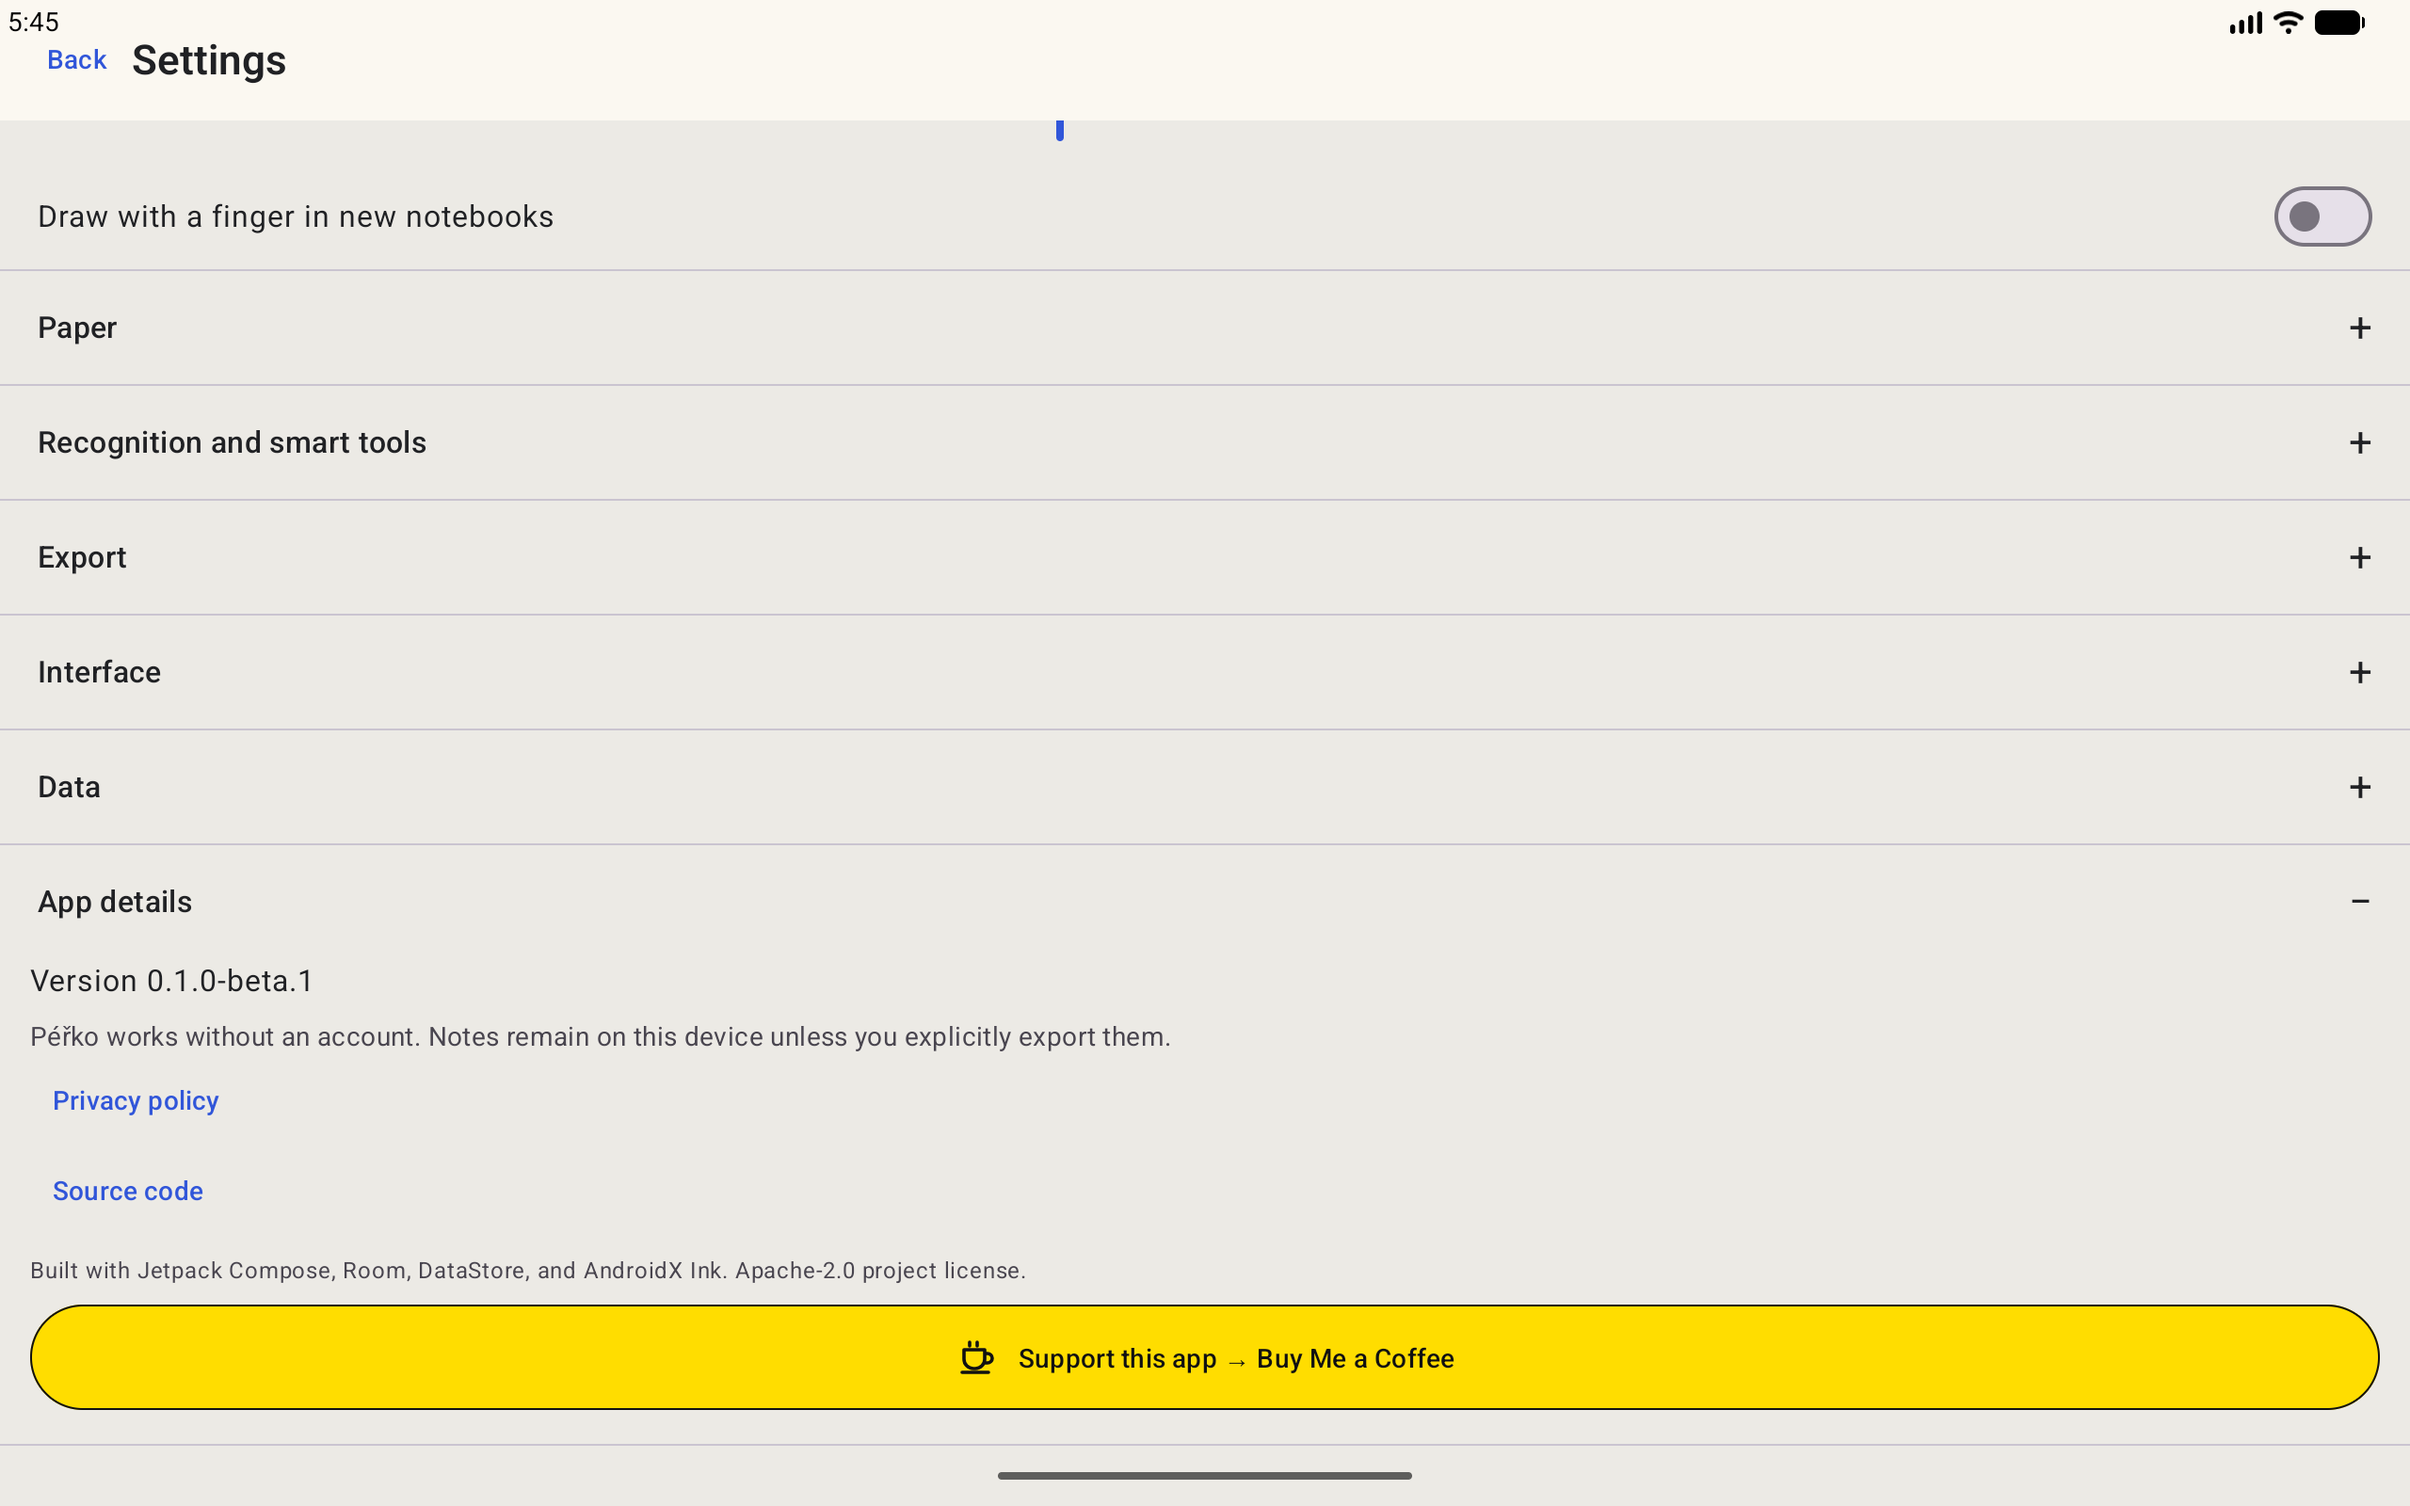
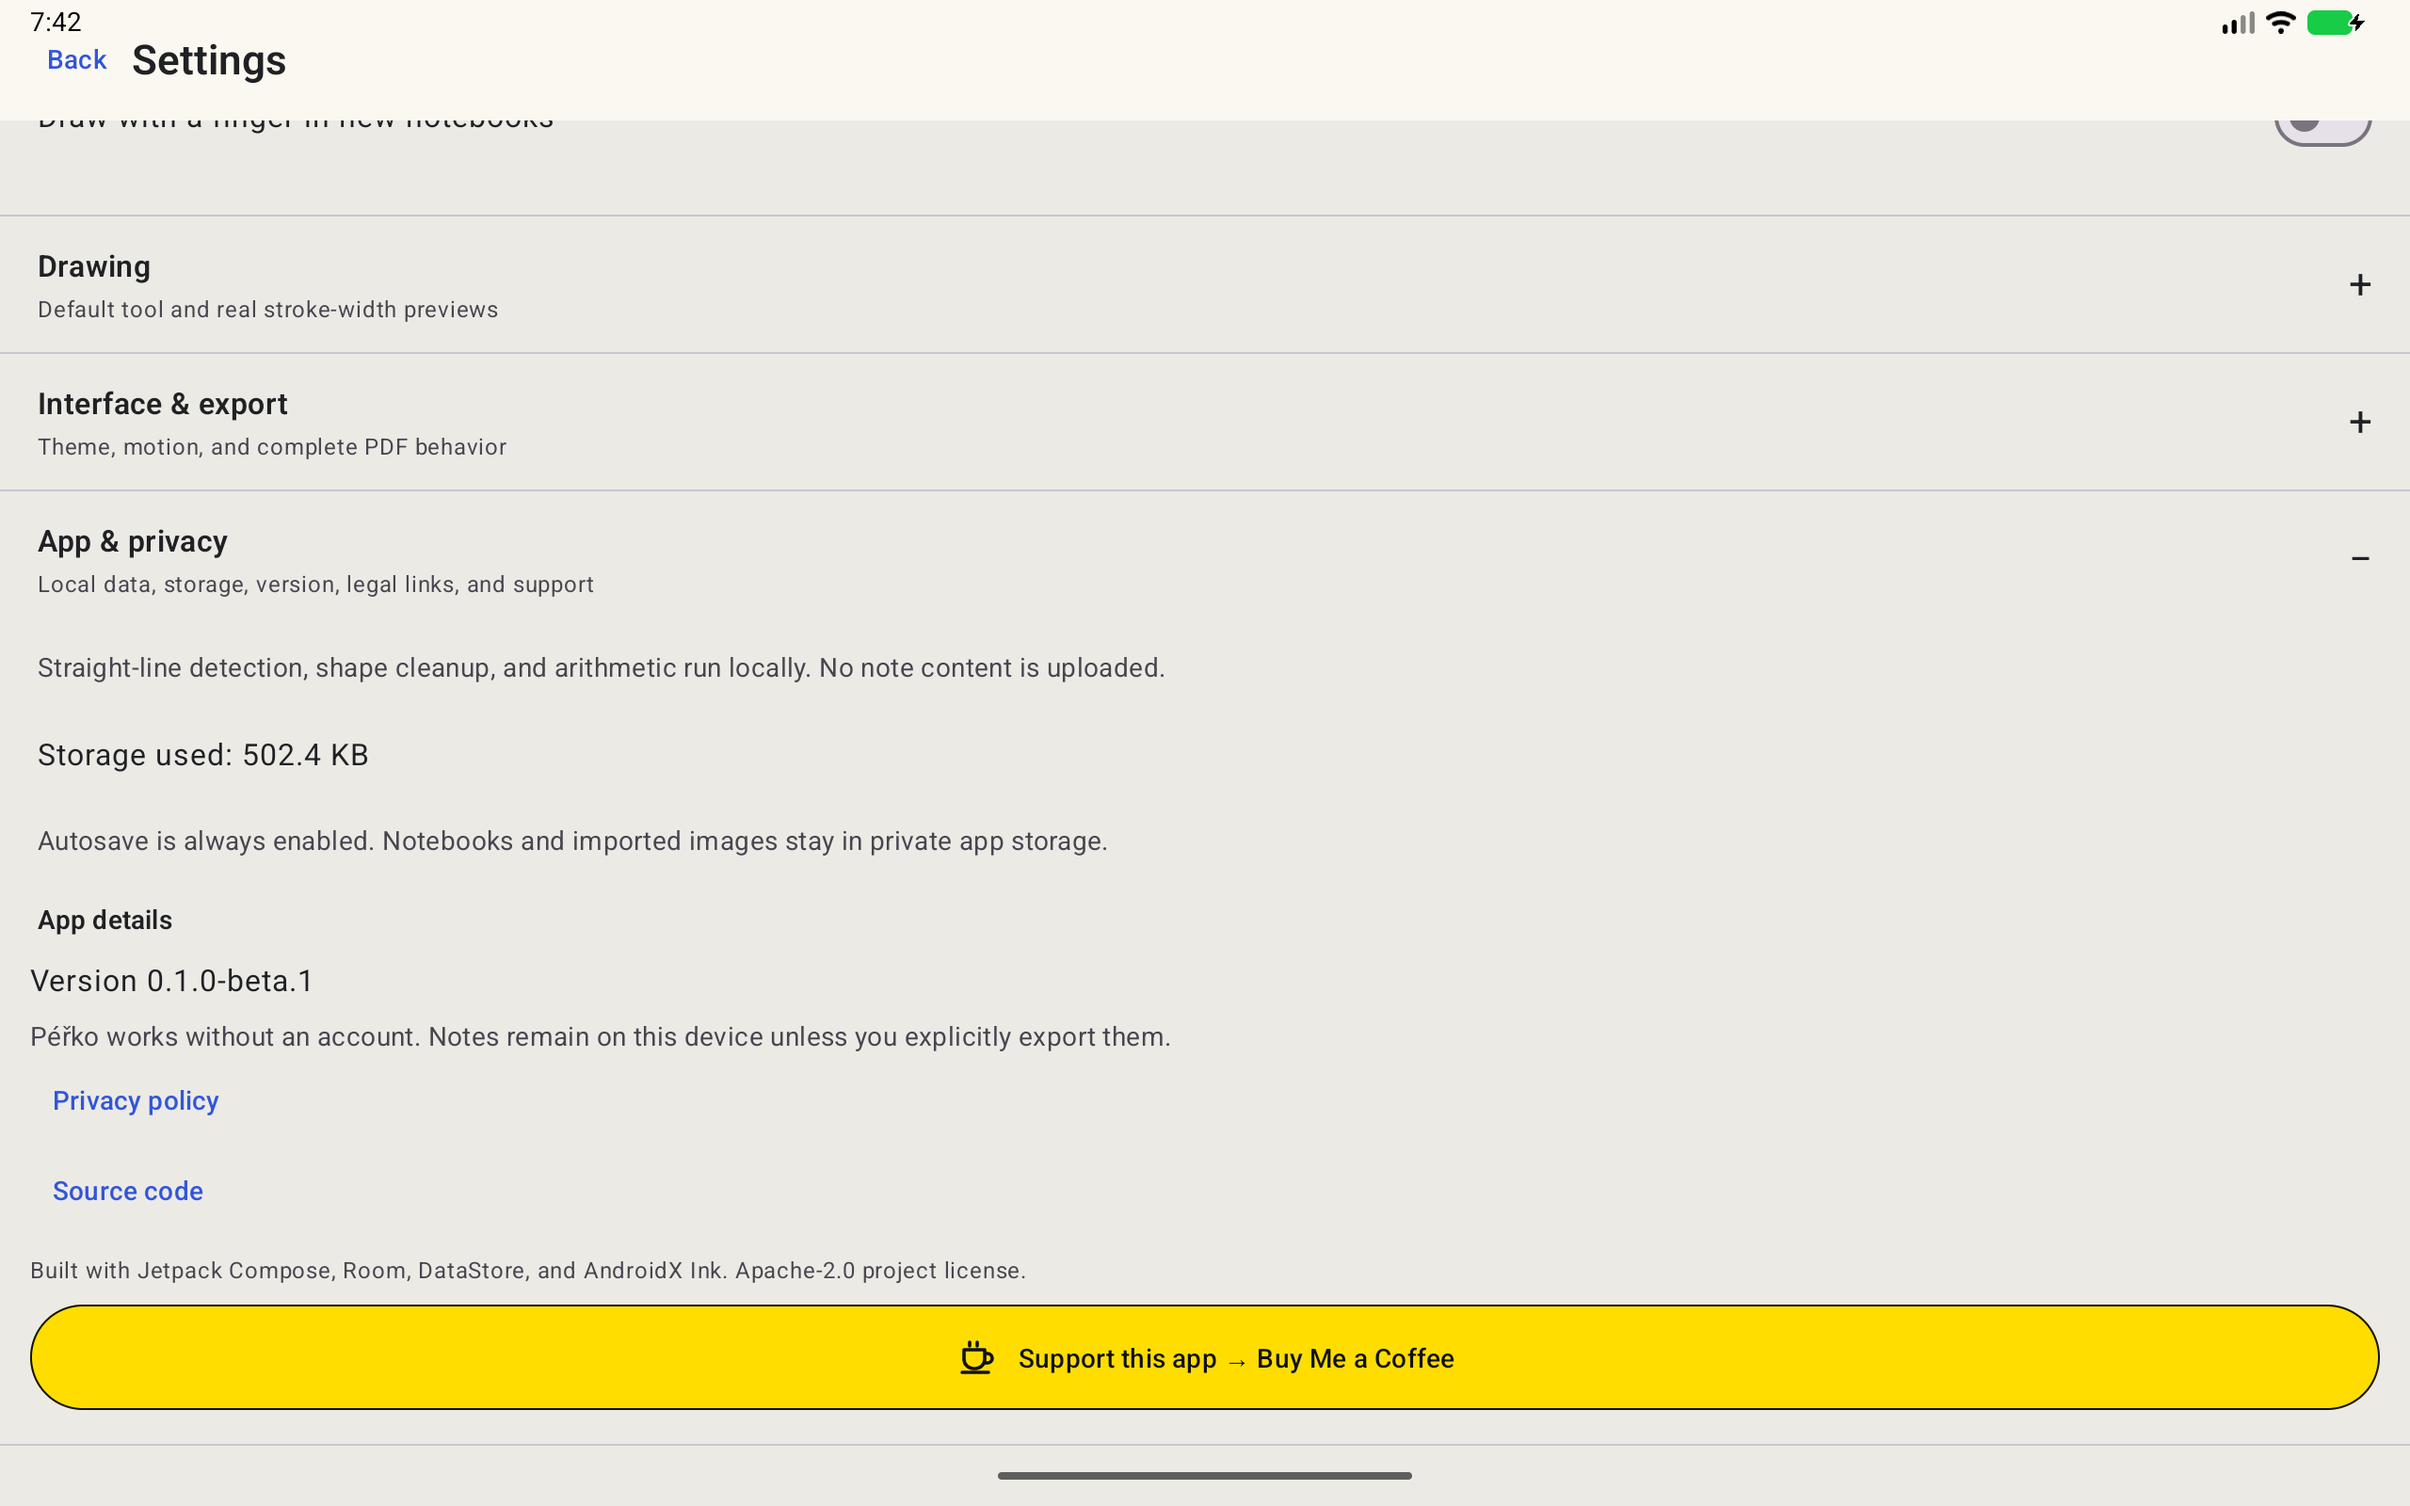
test(ui): verify visual notebook flows

diff --git a/app/src/androidTest/java/cz/majkey/perko/editor/ElementFlowTest.kt b/app/src/androidTest/java/cz/majkey/perko/editor/ElementFlowTest.kt
@@ -43,7 +43,7 @@ class ElementFlowTest {
             val page = viewModel.awaitState("page load") { it.selectedPage != null }.selectedPage!!
 
             onMain { viewModel.addText(page.id, "Force = mass × acceleration") }
-            val added = viewModel.awaitState("text add") { it.elements.size == 1 }
+            val added = viewModel.awaitState("text add") { it.elements.size == 1 && it.canUndo }
             assertEquals("Force = mass × acceleration", added.elements.single().text)
 
             onMain(viewModel::undo)

diff --git a/docs/qa/2026-08-24-emulator-acceptance.md b/docs/qa/2026-08-24-emulator-acceptance.md
@@ -16,8 +16,8 @@ No physical phone or tablet was accessed. The initially observed `emulator-5592`
 - JVM parser, title, history, geometry, and support URL checks: pass.
 - Android lint: pass with no blocking finding.
 - Debug APK and release APK assembly: pass.
-- API 37 instrumentation: `OK (24 tests)`, 245.784 seconds.
-- API 29 instrumentation on a clean app data set: `OK (24 tests)`, 64.725 seconds.
+- API 37 instrumentation after the visual configurator update: `OK (28 tests)`, 66.611 seconds.
+- API 29 instrumentation after the visual configurator update: `OK (28 tests)`, 33.772 seconds.
 - Covered flows: launch, Room transactions, library create/rename/trash/delete, ordered pages, AndroidX Ink serialization and routing, palm cancellation, hardware eraser, lasso, image validation, text/math undo and redo, PDF rendering, DataStore validation, and App details.
 
 ## Live verification
@@ -29,6 +29,8 @@ No physical phone or tablet was accessed. The initially observed `emulator-5592`
 - `18/3+1=` produced the persisted local result `18/3+1 = 7` without a network request.
 - The system document picker saved an A4 PDF. Poppler reported one valid 595 × 842 pt page, and the rendered PNG contained the ruled paper and ink without clipping.
 - Settings were reachable from library and editor. App details displayed the version, legal links, disclosures, and the ScanIt-matched Buy Me a Coffee control.
+- The creation modal showed four illustrated templates and a live cover/paper preview on both phone and tablet. Selecting Grid notebook updated the real grid-paper and portrait controls.
+- Settings showed the same persisted notebook preview plus real pen/highlighter width samples instead of abstract numeric-only controls.
 
 ## Screenshots
 
@@ -40,6 +42,10 @@ No physical phone or tablet was accessed. The initially observed `emulator-5592`
 - [App details and support](screenshots/tablet-app-details.png)
 - [Android 10 library](screenshots/phone-api29-library.png)
 - [Android 10 editor](screenshots/phone-api29-editor.png)
+- [Tablet notebook creator](screenshots/tablet-new-notebook.png)
+- [Tablet visual settings](screenshots/tablet-settings-defaults.png)
+- [Phone notebook creator](screenshots/phone-new-notebook.png)
+- [Phone visual settings](screenshots/phone-settings.png)
 
 ## Beta limits
 

diff --git a/README.md b/README.md
@@ -17,6 +17,7 @@ Péřko is a private, offline-first Android notebook built for tablets and stylu
 - Low-latency AndroidX Ink with pressure, tilt, stylus eraser, palm cancellation, and motion prediction.
 - Pen, pencil, highlighter, stroke eraser, lasso selection, bounded movement, and 100-step undo/redo.
 - Multiple notebooks with original covers, search, favorites, trash, ordered pages, and page duplication with content.
+- Four illustrated starting templates with a live cover, paper, and orientation preview.
 - Blank, ruled, grid, and dot paper in portrait or landscape.
 - Private image import through Android Photo Picker with MIME, dimension, allocation, and corruption checks.
 - Persisted text, images, clean lines/arrows/ellipses/rectangles/triangles, and local calculator blocks.
@@ -37,6 +38,10 @@ Péřko is a private, offline-first Android notebook built for tablets and stylu
 | Local math | App details |
 | --- | --- |
 | ![Local math](docs/qa/screenshots/tablet-math.png) | ![App details](docs/qa/screenshots/tablet-app-details.png) |
+
+| Visual notebook creator | Visual defaults |
+| --- | --- |
+| ![Notebook creator](docs/qa/screenshots/tablet-new-notebook.png) | ![Visual settings](docs/qa/screenshots/tablet-settings-defaults.png) |
 
 ## Privacy
 

diff --git a/docs/play-store/STORE_LISTING.md b/docs/play-store/STORE_LISTING.md
@@ -12,7 +12,7 @@
 
 Péřko turns an Android tablet or phone into a private paper notebook.
 
-Create multiple notebooks with original covers, choose ruled, grid, dot, or blank paper, and organize real ordered pages. Write with a stylus using pressure and tilt, switch between pen, pencil, and highlighter, erase complete strokes, select with a lasso, and undo or redo up to 100 editing steps.
+Start with an illustrated Ruled notes, Grid notebook, Dotted journal, or Blank sketchbook template. A live preview shows the real cover, paper, and orientation before creation. Customize the result and organize real ordered pages. Write with a stylus using pressure and tilt, switch between pen, pencil, and highlighter, erase complete strokes, select with a lasso, and undo or redo up to 100 editing steps.
 
 Add text and images selected through Android Photo Picker. Annotate directly over imported images. Replace selected ink with a clean line, arrow, ellipse, rectangle, or triangle. Calculate arithmetic locally and place the result on the page. Export the complete notebook — paper, ink, text, images, shapes, and math — to a PDF location you choose.
 
